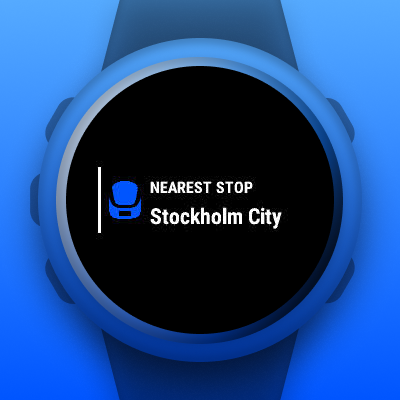
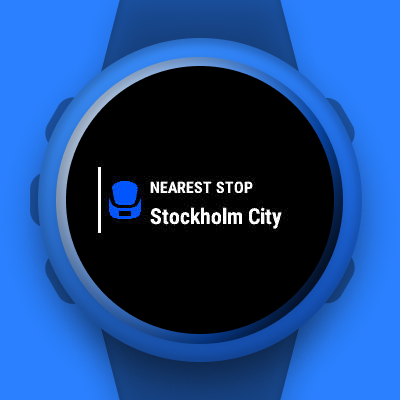
Update preview images

diff --git a/README.md b/README.md
@@ -4,7 +4,7 @@ A Garmin Connect IQ widget displaying SL departures, using Trafiklab's APIs.
 
 ## Preview
 
-<p><img src="presentation/view-glance.png" width="32%" /> <img src="presentation/view-preview.png" width="32%" /> <img src="presentation/view-list-nearby.png" width="32%" /> <img src="presentation/view-list-favorites.png" width="32%" /> <img src="presentation/view-detail-bus.png" width="32%" /> <img src="presentation/view-detail-metro.png" width="32%" /> </p>
+<p><img src="presentation/view-glance.png" width="32%" /> <img src="presentation/view-preview.png" width="32%" /> <img src="presentation/view-stops-nearby.png" width="32%" /> <img src="presentation/view-stops-favorites.png" width="32%" /> <img src="presentation/view-departures-bus.png" width="32%" /> <img src="presentation/view-departures-metro.png" width="32%" /> </p>
 
 ## Features
 
